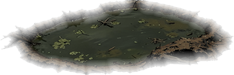
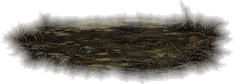
Močál přegenerován stejným modelem jako džungle; kláda nakreslená v perspektivě
Claude-Session: https://claude.ai/code/session_015jCRZS7ASg3pqxo763VEwg

diff --git a/tools/build_bg.py b/tools/build_bg.py
@@ -17,6 +17,7 @@ ROOT = os.path.dirname(os.path.dirname(os.path.abspath(__file__)))
 SKY_H = 200      # výška oblohy ve hře (logické px)
 GROUND_H = 150   # výška pásu země
 GROUND_DARK = 0.68  # ztmavení země
+LOGP_H = 150     # výška klády v perspektivě (logické px)
 OBJ_H = 78       # výška největšího objektu v prostřední vrstvě (malé = daleko)
 COLORS = 40
 # Ponurá paleta: bláto, popel, špinavá oliva, zaschlá krev, kost
@@ -25,9 +26,9 @@ GRIM = ["14100e", "1e1814", "29211b", "352a22", "42352a", "514133", "62503f", "7
         "642a22", "7e3a2a", "8c7f68", "a89a7e", "4a4a52", "686470",
         "1f2a1c", "2c3a26", "3c4c30", "4e5e3a", "62704a", "7a845a"]  # tlumené zelené (voda, rákos)
 # výřez země z obrázku (zlomky šířky/výšky), aby nebyly vidět kořeny na okrajích
-GROUND_CROP = {"swamp": (0.0, 0.32, 1.0, 1.0), "jungle": (0.0, 0.08, 1.0, 1.0)}
-SPLIT_COMPONENTS = {"jungle"}
-SKY_CROP = {"jungle": (0.0, 0.58)}  # z obrázku jen horní část (bez podlahy)
+GROUND_CROP = {"swamp": (0.0, 0.08, 1.0, 1.0), "jungle": (0.0, 0.08, 1.0, 1.0)}
+SPLIT_COMPONENTS = {"jungle", "swamp"}
+SKY_CROP = {"jungle": (0.0, 0.58), "swamp": (0.0, 0.55)}  # z obrázku jen horní část (bez podlahy)
 
 
 BAYER = np.array([[0, 8, 2, 10], [12, 4, 14, 6], [3, 11, 1, 9], [15, 7, 13, 5]]) / 16.0 - 0.5
@@ -269,6 +270,34 @@ def main(biome):
                 retro(im, (width, max(4, round(im.height * width / im.width)))).save(f"{out}/{prefix}_{n_out}.png")
                 n_out += 1
         extra[f"{biome}_{prefix}"] = n_out
+    # Kláda nakreslená rovnou v perspektivě (průhledné pozadí) -> logp_0.png
+    # + osa klády na zemi: x = ax * y + bx (logické px uvnitř obrázku), polovina tloušťky
+    lpath = f"{src}/grim_{biome}_logp.png"
+    if os.path.exists(lpath):
+        im = Image.open(lpath).convert("RGBA")
+        al = np.asarray(im)[..., 3] > 128
+        al = ndimage.binary_opening(al, iterations=2)
+        ys, xs = np.nonzero(al)
+        im = im.crop((xs.min(), ys.min(), xs.max() + 1, ys.max() + 1))
+        al = al[ys.min():ys.max() + 1, xs.min():xs.max() + 1]
+        H = LOGP_H
+        k = H / al.shape[0]
+        W = round(al.shape[1] * k)
+        retro(im, (W, H)).save(f"{out}/logp_0.png")
+        rows = [(y, np.nonzero(al[y])[0]) for y in range(al.shape[0])]
+        rows = [(y, r) for y, r in rows if r.size > 0]
+        n = len(rows)
+        sel = rows[int(n * 0.15):int(n * 0.85)]
+        yy = np.array([y for y, r in sel], float) * k
+        cx = np.array([(r.min() + r.max()) / 2 for y, r in sel], float) * k
+        wd = np.array([r.max() - r.min() for y, r in sel], float) * k
+        ax, bx = np.polyfit(yy, cx, 1)
+        half = float(np.median(wd)) * 0.5
+        # zem je pod osou válce: posun o čtvrtinu šířky dolů
+        d = half * 0.5
+        bx = bx - ax * d
+        extra[f"{biome}_logp"] = [round(float(ax), 4), round(float(bx), 2), round(half, 2), W, H]
+        print("logp", extra[f"{biome}_logp"])
     # Seznam objektů pro hru
     data_path = os.path.join(ROOT, "scripts/bg_data.gd")
     data = {}
